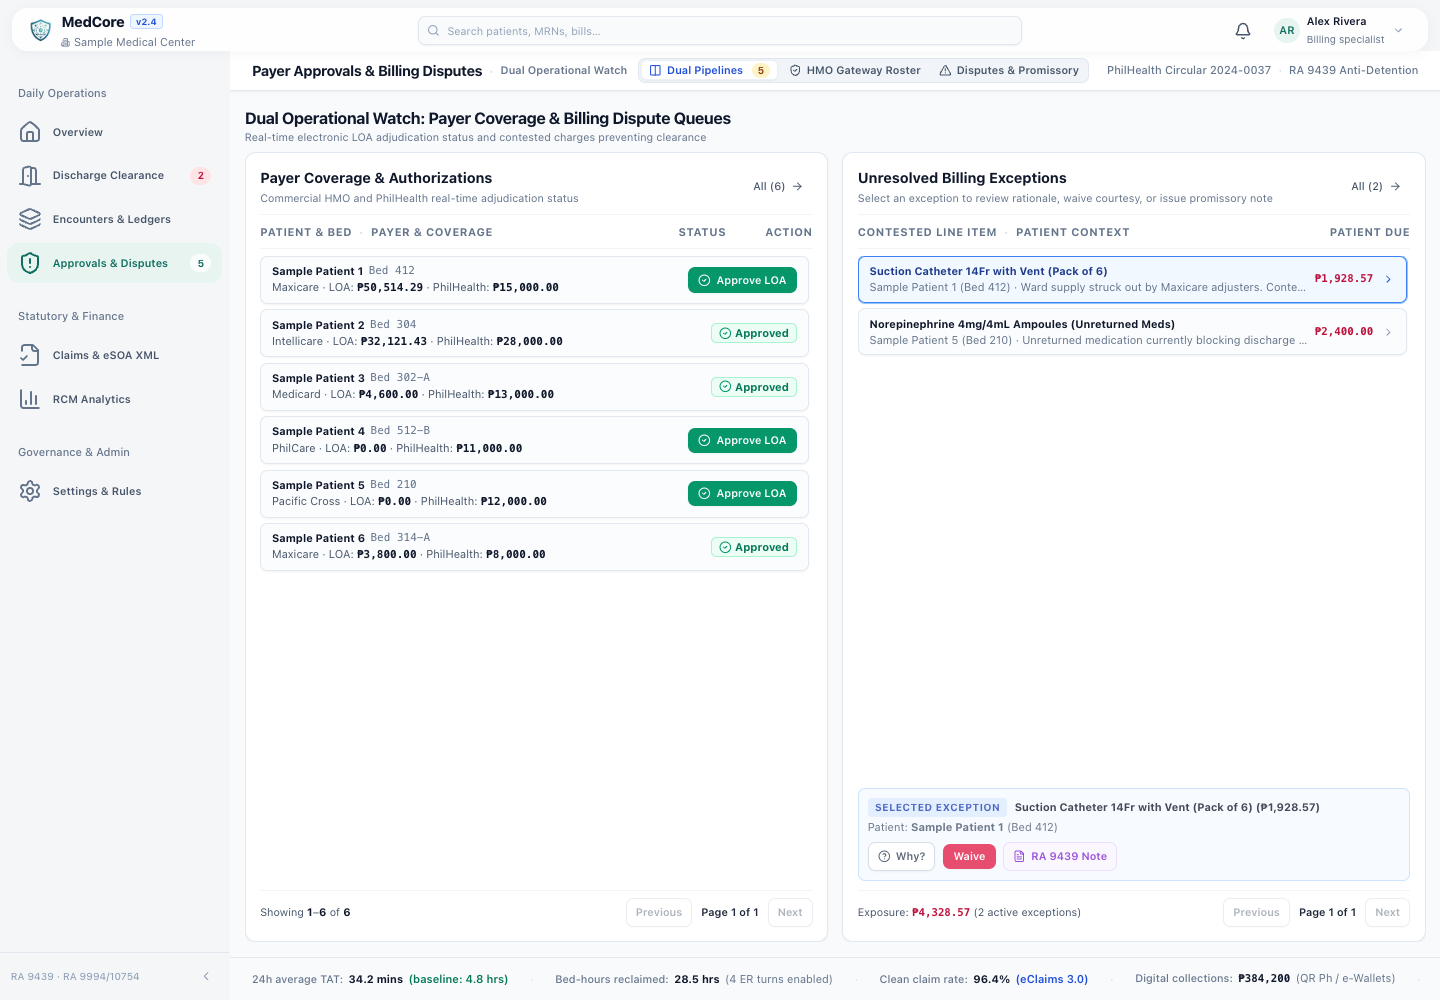
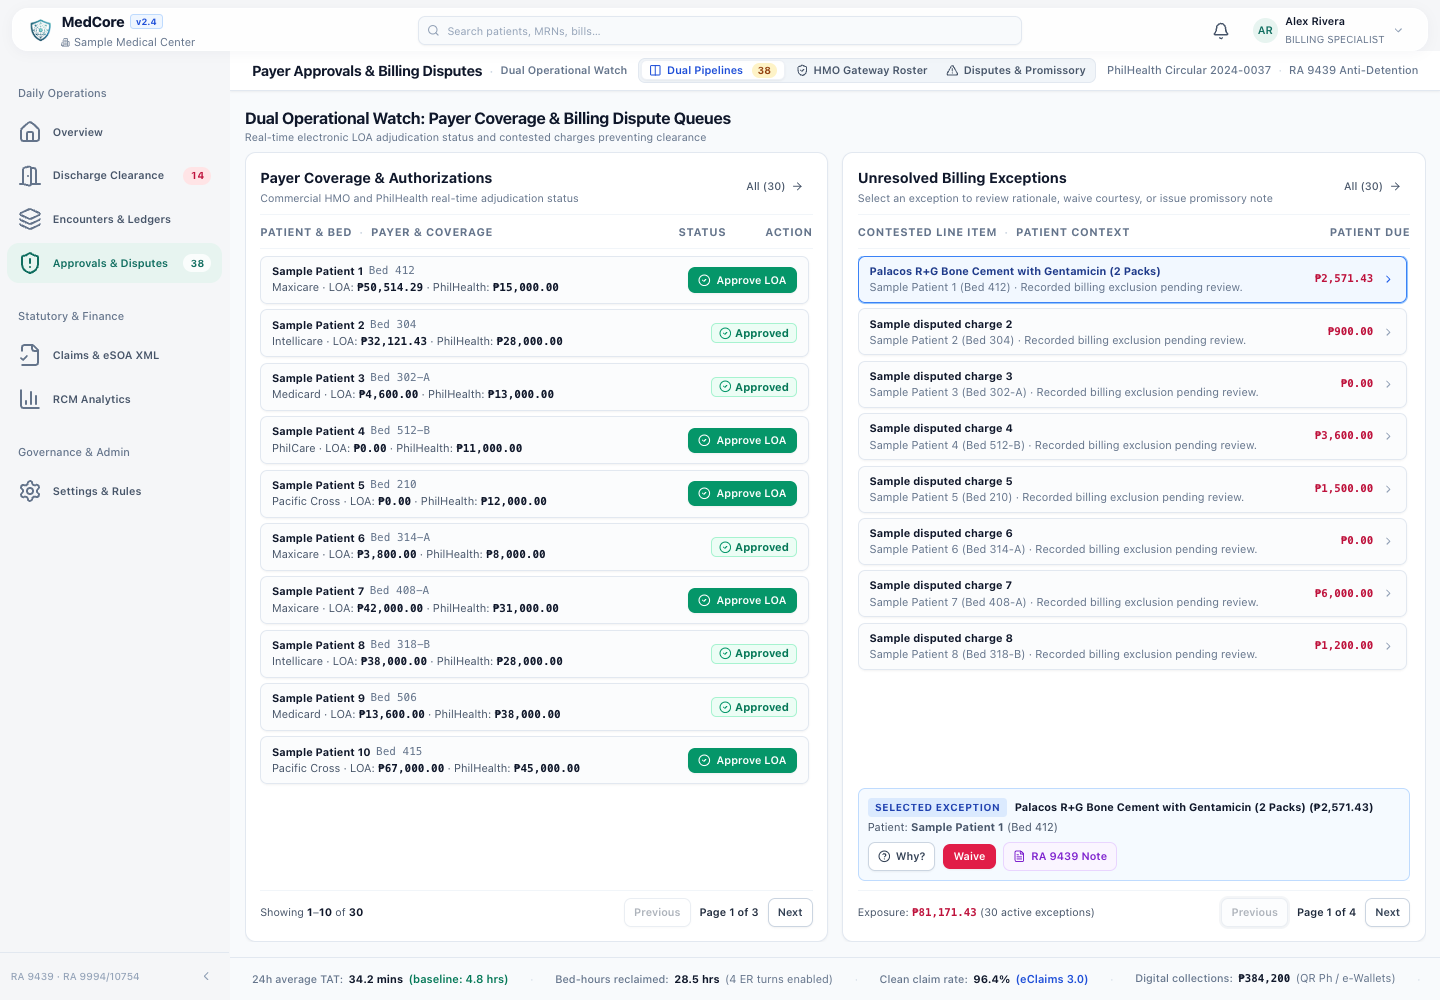
fix(ui): adjust approvals and disputes pagination

diff --git a/apps/dashboard/src/features/command-center/components/DualOperationalPipelines.tsx b/apps/dashboard/src/features/command-center/components/DualOperationalPipelines.tsx
@@ -26,11 +26,11 @@ export const DualOperationalPipelines: React.FC<DualOperationalPipelinesProps> =
   // Search & Pagination States
   const payerSearch = searchQuery;
   const [payerPage, setPayerPage] = useState(1);
-  const payerPageSize = 9;
+  const payerPageSize = 10;
 
   const exceptionsSearch = searchQuery;
   const [exceptionsPage, setExceptionsPage] = useState(1);
-  const exceptionsPageSize = 7;
+  const exceptionsPageSize = 8;
 
   // Selected row state for Unresolved Exceptions to dock contextual actions
   const [selectedExceptionKey, setSelectedExceptionKey] = useState<string | null>(null);

diff --git a/apps/dashboard/src/pages/DisputesExceptionsPage.tsx b/apps/dashboard/src/pages/DisputesExceptionsPage.tsx
@@ -23,7 +23,7 @@ export const DisputesExceptionsPage: React.FC = () => {
     itemDescription?: string;
     amount?: number;
   }>({ isOpen: false, encounter: null });
-  const pageSize = 11;
+  const pageSize = 7;
   useEffect(()=>{ setItemsPage(1); setNotesPage(1); }, [searchQuery]);
 
   // Collect all contested items (excluding waived items)

diff --git a/apps/dashboard/src/pages/CoverageApprovalsPage.tsx b/apps/dashboard/src/pages/CoverageApprovalsPage.tsx
@@ -18,7 +18,7 @@ export const CoverageApprovalsPage: React.FC = () => {
     itemDescription?: string;
     amount?: number;
   }>({ isOpen: false, encounter: null });
-  const pageSize = 12;
+  const pageSize = 8;
   useEffect(()=>{ setCurrentPage(1); }, [searchQuery]);
   const tableContainerRef = useRef<HTMLDivElement>(null);
 

diff --git a/.brain/PROJECT_CONTEXT.md b/.brain/PROJECT_CONTEXT.md
@@ -2439,3 +2439,9 @@ An exhaustive end-to-end performance and reliability audit and refactor was comp
 [VALIDATION] 54 isolated route/provider regression groups, 13 cache groups and 7 real PostgreSQL groups pass: repeated requests to every feature spend zero extra provider calls; eight concurrent requests across independent pools share one generation; refresh, expiry, ownership, language/history/source invalidation, corrupt outputs, failure sharing and lease fencing are covered. Server and changed script/test strict types, dashboard build, Worker dry run, seven Claims/eSOA DOM groups, shared financial/auth/workflow/notification tests and diff checks pass. Independent review's cleanup and fast-failure races were fixed and re-reviewed. Hosted Cora verification observed GENERATED/HIT/HIT with identical valid English answers and authoritative balance; only timing/cache metadata was saved, no clinical financial data mutated. Evidence: [AI cache verification](../docs/validation/ai-cache/README.md).
 
 [DEPLOYMENT] Additive cache table/index applied to the configured database after verifying it matches the existing Worker Hyperdrive origin; Hyperdrive SQL query caching remains disabled. Backend deployed as version `2ae8c460-37f9-49bd-8a9e-623dd23af278`. Mobile receives caching through the backend without a new client build. Dashboard source publication/rebuild is required for the explicit appeal Regenerate flag. Source remains uncommitted/unpushed by the agent; unrelated CODEX_SMS_IMPLEMENTATION_PROMPT.md is untouched. Existing root advisories remain 17 (6 moderate, 9 high, 2 critical); no dependency changes.
+
+## Approvals and disputes page sizes — October 12, 2026
+
+[DECISION] Dual Pipelines now shows 10 payer authorizations and 8 unresolved exceptions per page (one more in each list), filling the reported gap at 1920×960 without clipping a row when the selected-item action dock wraps. HMO Gateway Roster shows 8 rows instead of 12; both contested items and RA 9439 promissory notes show 7 instead of 11. Existing filtering, totals, page clamping, Previous/Next and internal scrolling remain intact.
+
+[VALIDATION] Dashboard production build/typecheck and diff checks pass. Actual browser views were verified with 30 synthetic encounters/disputes/notes at 1920×960, 1440×1000 and 1440×800: page sizes, forward/back navigation and visible pagination controls pass, with zero page errors or application mutations. Short screens retain internal scrolling. The three affected root dashboard views and roster scroll screenshot were refreshed at the existing 1440×1000 dimensions. Source remains uncommitted/unpushed; no backend changes or deployment are required.
